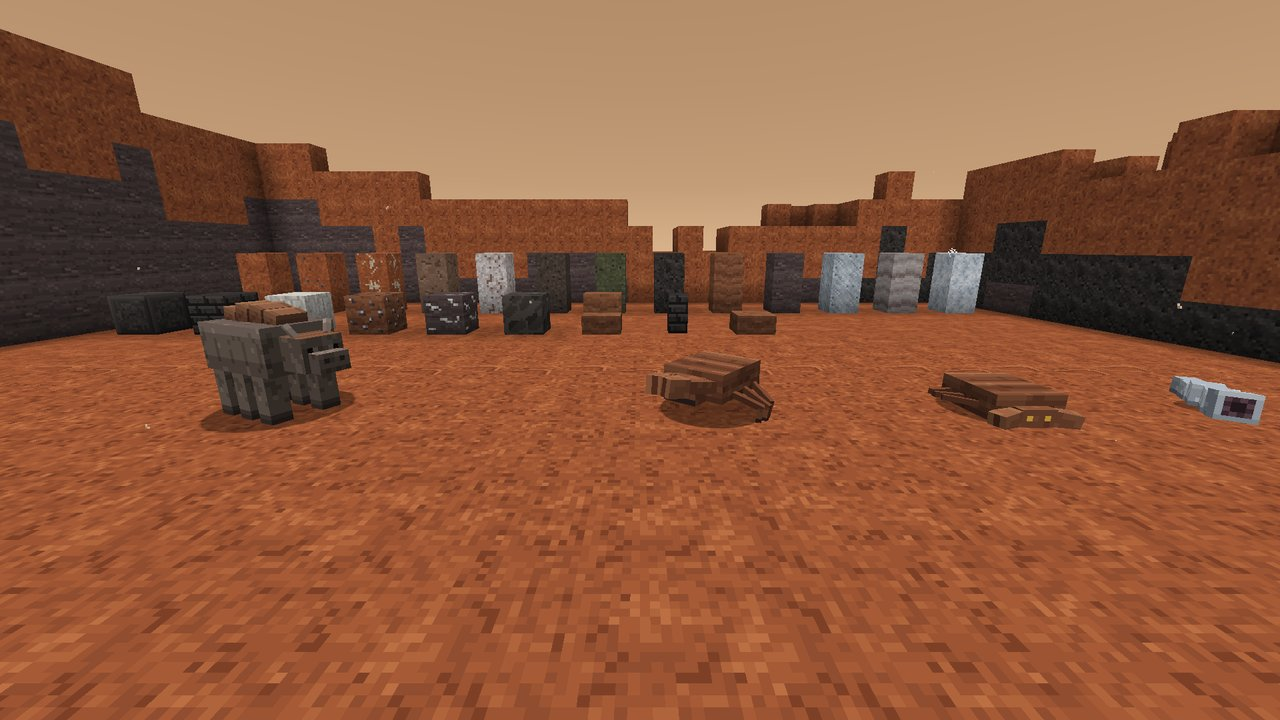
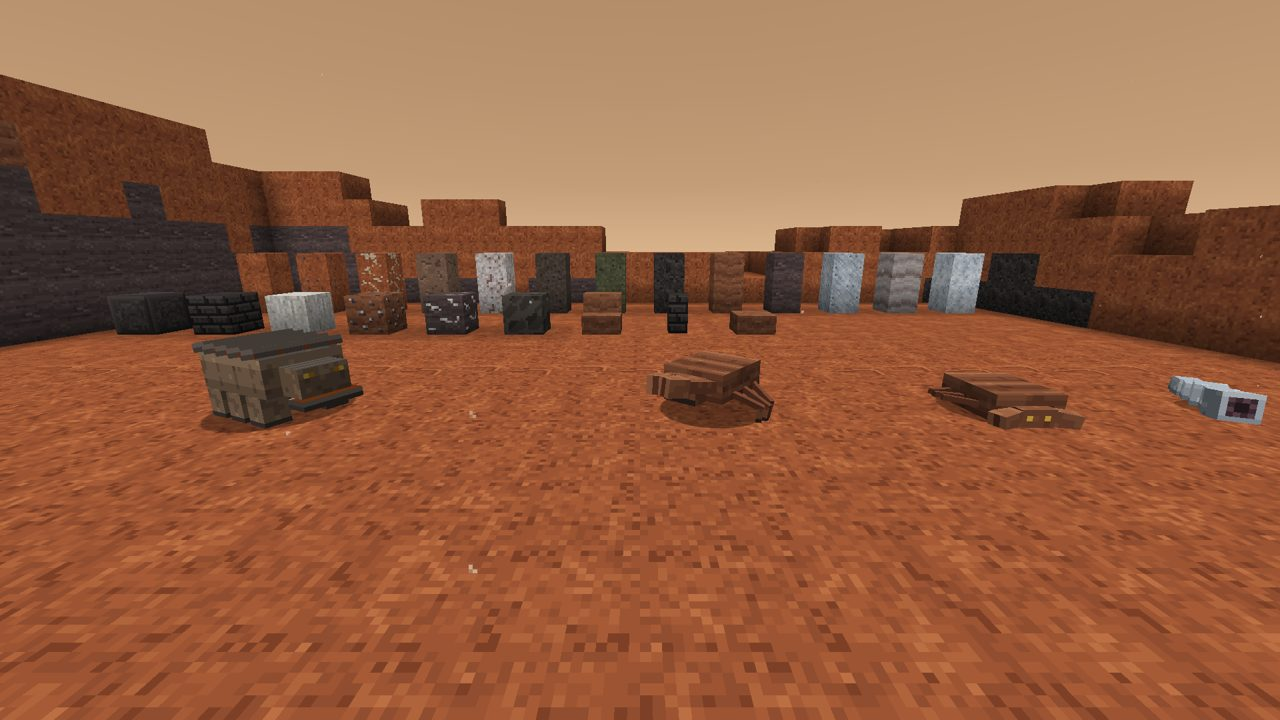
Stonegrazer: a low armoured grazer instead of a pig-like beast
Broad and low, with shingled rock plates flecked with rust across its back, a wedge head with small amber eyes and a wide scraper jaw that works while it grazes (dark orange inside), six short thick legs and a plated tail stub. Hitbox lowered to match.

diff --git a/src/main/java/com/pizzaparker07/spacebreaker/client/mars/StonegrazerModel.java b/src/main/java/com/pizzaparker07/spacebreaker/client/mars/StonegrazerModel.java
@@ -12,17 +12,23 @@ import net.minecraft.client.model.geom.builders.MeshDefinition;
 import net.minecraft.client.model.geom.builders.PartDefinition;
 import net.minecraft.util.Mth;
 
-/** Stonegrazer: barrel body with a ridge of dorsal plates, a blunt snout with two short horns, low heavy head, six pillar legs and a stubby tail. UVs: mars_creatures.py. */
+/**
+ * Stonegrazer: a low, broad armoured grazer. Overlapping rock plates shingle its back, the head is a low wedge with a
+ * wide flat scraper jaw for planing lichen-like crusts off the rock, six short thick legs and a plated stub of a tail.
+ * UVs: mars_creatures.py.
+ */
 public class StonegrazerModel extends HierarchicalModel<Stonegrazer> {
     public static final ModelLayerLocation LAYER = new ModelLayerLocation(Spacebreaker.id("stonegrazer"), "main");
     private final ModelPart root;
     private final ModelPart head;
+    private final ModelPart jaw;
     private final ModelPart tail;
     private final ModelPart[] legs = new ModelPart[6];
 
     public StonegrazerModel(ModelPart root) {
         this.root = root;
         this.head = root.getChild("head");
+        this.jaw = head.getChild("jaw");
         this.tail = root.getChild("tail");
         for (int i = 0; i < 6; i++) {
             legs[i] = root.getChild("leg" + i);
@@ -32,28 +38,25 @@ public class StonegrazerModel extends HierarchicalModel<Stonegrazer> {
     public static LayerDefinition createLayer() {
         MeshDefinition mesh = new MeshDefinition();
         PartDefinition root = mesh.getRoot();
-        PartDefinition body = root.addOrReplaceChild("body", CubeListBuilder.create().texOffs(0, 0).addBox(-7F, -10F, -11F, 14F, 10F, 22F),
-                PartPose.offset(0F, 14F, 0F));
-        float[] pz = {-7F, -2F, 3F, 7.5F};
-        float[] ph = {3F, 4F, 4F, 3F};
-        for (int i = 0; i < 4; i++) {
-            body.addOrReplaceChild("plate" + i, CubeListBuilder.create().texOffs(0, 32).addBox(-3F, -ph[i], -2F, 6F, ph[i], 4F),
-                    PartPose.offsetAndRotation(0F, -9.5F, pz[i], 0.25F, 0F, 0F));
+        PartDefinition body = root.addOrReplaceChild("body", CubeListBuilder.create().texOffs(0, 0).addBox(-8F, -8F, -11F, 16F, 8F, 22F),
+                PartPose.offset(0F, 18F, 0F));
+        // shingled plates across the back, each tipped forward over the next
+        float[] pz = {-8.5F, -4F, 0.5F, 5F, 9F};
+        for (int i = 0; i < pz.length; i++) {
+            body.addOrReplaceChild("plate" + i, CubeListBuilder.create().texOffs(0, 32).addBox(-8.5F, -2F, -2.5F, 17F, 2F, 5F),
+                    PartPose.offsetAndRotation(0F, -8F, pz[i], -0.18F, 0F, 0F));
         }
-        PartDefinition head = root.addOrReplaceChild("head", CubeListBuilder.create().texOffs(72, 0).addBox(-4F, -3F, -8F, 8F, 7F, 8F),
-                PartPose.offset(0F, 9F, -10F));
-        head.addOrReplaceChild("snout", CubeListBuilder.create().texOffs(104, 0).addBox(-3F, 0F, -3F, 6F, 4F, 3F), PartPose.offset(0F, 0F, -8F));
-        head.addOrReplaceChild("horn_left", CubeListBuilder.create().texOffs(104, 10).addBox(-0.5F, -3F, -0.5F, 1F, 3F, 1F),
-                PartPose.offsetAndRotation(3F, -3F, -5F, -0.35F, 0F, 0.4F));
-        head.addOrReplaceChild("horn_right", CubeListBuilder.create().texOffs(104, 10).mirror().addBox(-0.5F, -3F, -0.5F, 1F, 3F, 1F),
-                PartPose.offsetAndRotation(-3F, -3F, -5F, -0.35F, 0F, -0.4F));
-        root.addOrReplaceChild("tail", CubeListBuilder.create().texOffs(72, 30).addBox(-1.5F, -1.5F, 0F, 3F, 3F, 6F),
-                PartPose.offsetAndRotation(0F, 7F, 10.5F, -0.6F, 0F, 0F));
+        PartDefinition head = root.addOrReplaceChild("head", CubeListBuilder.create().texOffs(80, 0).addBox(-5F, -4F, -6F, 10F, 6F, 6F),
+                PartPose.offset(0F, 16F, -11F));
+        head.addOrReplaceChild("jaw", CubeListBuilder.create().texOffs(80, 14).addBox(-6F, 0F, -5F, 12F, 2F, 5F),
+                PartPose.offset(0F, 2F, -3F));
+        root.addOrReplaceChild("tail", CubeListBuilder.create().texOffs(80, 24).addBox(-2F, -2F, 0F, 4F, 3F, 5F),
+                PartPose.offsetAndRotation(0F, 14F, 11F, -0.25F, 0F, 0F));
         float[] z = {-7F, 0F, 7F};
         for (int i = 0; i < 3; i++) {
-            root.addOrReplaceChild("leg" + i, CubeListBuilder.create().texOffs(72, 16).addBox(-2F, 0F, -2F, 4F, 10F, 4F), PartPose.offset(5F, 14F, z[i]));
-            root.addOrReplaceChild("leg" + (i + 3), CubeListBuilder.create().texOffs(72, 16).mirror().addBox(-2F, 0F, -2F, 4F, 10F, 4F),
-                    PartPose.offset(-5F, 14F, z[i]));
+            root.addOrReplaceChild("leg" + i, CubeListBuilder.create().texOffs(100, 24).addBox(-2.5F, 0F, -2.5F, 5F, 6F, 5F), PartPose.offset(6F, 18F, z[i]));
+            root.addOrReplaceChild("leg" + (i + 3), CubeListBuilder.create().texOffs(100, 24).mirror().addBox(-2.5F, 0F, -2.5F, 5F, 6F, 5F),
+                    PartPose.offset(-6F, 18F, z[i]));
         }
         return LayerDefinition.create(mesh, 128, 64);
     }
@@ -68,7 +71,9 @@ public class StonegrazerModel extends HierarchicalModel<Stonegrazer> {
         head.yRot = netHeadYaw * Mth.DEG_TO_RAD * 0.5F;
         // every so often the head sinks to lick the rocks
         float graze = Mth.clamp((Mth.sin(ageInTicks * 0.025F + grazer.getId()) - 0.6F) * 4F, 0F, 1F) * (1 - Math.min(1, limbSwingAmount * 3));
-        head.xRot = headPitch * Mth.DEG_TO_RAD * 0.4F + graze * 0.9F;
+        head.xRot = headPitch * Mth.DEG_TO_RAD * 0.4F + graze * 0.7F;
+        // the scraper jaw works while it grazes
+        jaw.xRot = graze * (0.15F + 0.15F * Mth.sin(ageInTicks * 0.6F));
         tail.yRot = Mth.sin(ageInTicks * 0.08F) * 0.2F;
         for (int i = 0; i < 6; i++) {
             float phase = ((i % 3) + (i >= 3 ? 1 : 0)) % 2 == 0 ? 0 : Mth.PI;

diff --git a/tools/textures/modules/mars_creatures.py b/tools/textures/modules/mars_creatures.py
@@ -73,75 +73,74 @@ def beetle():
     return cv
 
 
+HIDE = ramp('#4a3a2e', '#5e4a3a', '#735b47', '#896d55', '#9d7f63', '#b09272')
+ROCK = ramp('#2f2a28', '#3f3834', '#514842', '#635850', '#76695f', '#897b6f')
+RUST = ramp('#5a2a18', '#7a3a20', '#9a4e2a')
+MOUTH = ramp('#3a1a0c', '#6a3010')
+
+
 def grazer():
-    """Stonegrazer: dusty grey-brown hide, a back armoured with rust-red plates in rows, a heavy blunt head."""
+    """Stonegrazer: a sandy hide under shingled grey rock plates flecked with rust, a wedge head with small amber eyes
+    and a wide dark scraper jaw with a pale cutting edge (the mouth inside dark orange)."""
     cv = Canvas(128, 64)
     n = clustered(128, 64, 51, passes=1)
 
     def body(face, x, y, fw, fh):
         if face == 'top':
-            return noise_pick(GRAZER, 3, n, x, y)
+            return noise_pick(ROCK, 2, n, x, y)
         if face == 'bottom':
-            return noise_pick(GRAZER, 1, n, x + 40, y)
-        # flank: lighter top, wrinkles as darker vertical folds
-        t = 4 if y < 2 else (3 if y < fh - 3 else 2)
-        if x % 5 == 0 and 2 < y < fh - 2:
-            t -= 1
-        return noise_pick(GRAZER, t, n, x + 7, y + 22)
+            return noise_pick(HIDE, 1, n, x + 40, y)
+        t = 4 if y < 2 else (3 if y < fh - 2 else 2)
+        if x % 6 == 0 and 1 < y < fh - 1:
+            t -= 1  # skin folds
+        return noise_pick(HIDE, t, n, x + 7, y + 22)
 
-    paint(cv, 0, 0, 14, 10, 22, body)
+    paint(cv, 0, 0, 16, 8, 22, body)
 
     def plates(face, x, y, fw, fh):
-        # each dorsal plate: a lit rim on top, weathered rust-red sides fading darker toward the base
         if face == 'top':
-            return PLATE[5] if y == 0 else (PLATE[4] if x not in (0, fw - 1) else PLATE[3])
+            if y == 0:
+                return ROCK[5]  # lit leading edge
+            if (x * 7 + y * 3) % 11 == 0:
+                return RUST[2]
+            return noise_pick(ROCK, 3, n, x + 3, y + 5)
         if face == 'bottom':
-            return PLATE[0]
+            return ROCK[0]
         if y == 0:
-            return PLATE[4]
-        t = 3 if y < fh // 2 else 2
-        if face in ('left', 'right') and (x + y) % 3 == 0:
-            t -= 1
-        return PLATE[max(1, t)]
+            return ROCK[4]
+        return RUST[1] if (x + y) % 5 == 0 else ROCK[2]
 
-    paint(cv, 0, 32, 6, 4, 4, plates)
+    paint(cv, 0, 32, 17, 2, 5, plates)
 
     def head(face, x, y, fw, fh):
         if face == 'front':
-            if y in (2,) and x in (1, fw - 2):
-                return CHITIN[0]  # small deep-set eyes
-            if y in (2,) and x in (2, fw - 3):
-                return GRAZER[5]
-            if y >= fh - 2:
-                return GRAZER[1] if x % 2 else GRAZER[2]  # grinding lips
-            return noise_pick(GRAZER, 3 if y < 2 else 2, n, x + 90, y)
+            if y == 1 and x in (1, fw - 2):
+                return EYE[2]
+            if y == 1 and x in (2, fw - 3):
+                return EYE[1]
+            return noise_pick(HIDE, 3 if y < 2 else 2, n, x + 90, y)
         if face == 'top':
-            return PLATE[4] if y % 3 == 0 else PLATE[3]
-        return noise_pick(GRAZER, 2, n, x + 60, y + 40)
+            return ROCK[3] if y % 2 == 0 else ROCK[2]
+        return noise_pick(HIDE, 2, n, x + 60, y + 40)
 
-    paint(cv, 72, 0, 8, 7, 8, head)
+    paint(cv, 80, 0, 10, 6, 6, head)
+
+    def jaw(face, x, y, fw, fh):
+        if face == 'top':
+            return MOUTH[1] if y > 0 else ROCK[5]  # inside the mouth, the cutting edge at the front
+        if face == 'front':
+            return ROCK[5] if y == 0 else ROCK[1]
+        return ROCK[1] if y else ROCK[2]
+
+    paint(cv, 80, 14, 12, 2, 5, jaw)
+    paint(cv, 80, 24, 4, 3, 5, lambda f, x, y, fw, fh: ROCK[3] if f == 'top' else noise_pick(HIDE, 2, n, x + 110, y + 50))
 
     def leg(face, x, y, fw, fh):
-        if y >= fh - 2:
-            return GRAZER[0] if y == fh - 1 else GRAZER[1]  # broad padded foot
-        return noise_pick(GRAZER, 3 if face in ('front', 'left') else 2, n, x + 100, y + 10)
+        if y >= fh - 1:
+            return ROCK[1]  # horny foot rim
+        return noise_pick(HIDE, 3 if face in ('front', 'left') else 2, n, x + 100, y + 10)
 
-    paint(cv, 72, 16, 4, 10, 4, leg)
-
-    def snout(face, x, y, fw, fh):
-        if face == 'front':
-            if y == 1 and x in (1, fw - 2):
-                return GRAZER[0]  # nostrils
-            if y == fh - 1:
-                return GRAZER[1] if x % 2 else GRAZER[2]  # grinding lips
-            return noise_pick(GRAZER, 4 if y == 0 else 3, n, x + 80, y + 50)
-        if face == 'top':
-            return noise_pick(GRAZER, 4, n, x + 85, y + 55)
-        return noise_pick(GRAZER, 2, n, x + 90, y + 58)
-
-    paint(cv, 104, 0, 6, 4, 3, snout)
-    paint(cv, 104, 10, 1, 3, 1, lambda f, x, y, fw, fh: GRAZER[6] if y == 0 else (GRAZER[5] if f in ('front', 'left') else GRAZER[4]))
-    paint(cv, 72, 30, 3, 3, 6, lambda f, x, y, fw, fh: noise_pick(GRAZER, 2, n, x + 110, y + 50))
+    paint(cv, 100, 24, 5, 6, 5, leg)
     return cv
 
 

diff --git a/src/main/java/com/pizzaparker07/spacebreaker/content/mars/entity/MarsEntities.java b/src/main/java/com/pizzaparker07/spacebreaker/content/mars/entity/MarsEntities.java
@@ -44,7 +44,7 @@ public final class MarsEntities {
             () -> EntityType.Builder.of(CanyonLurker::new, MobCategory.MONSTER).sized(1.4F, 0.95F).eyeHeight(0.75F).clientTrackingRange(8)
                     .build("canyon_lurker"));
     public static final DeferredHolder<EntityType<?>, EntityType<Stonegrazer>> STONEGRAZER = ENTITIES.register("stonegrazer",
-            () -> EntityType.Builder.of(Stonegrazer::new, MobCategory.CREATURE).sized(1.6F, 1.65F).eyeHeight(1.1F).clientTrackingRange(10)
+            () -> EntityType.Builder.of(Stonegrazer::new, MobCategory.CREATURE).sized(1.6F, 1.1F).eyeHeight(0.7F).clientTrackingRange(10)
                     .build("stonegrazer"));
     public static final DeferredHolder<EntityType<?>, EntityType<PolarWorm>> POLAR_WORM = ENTITIES.register("polar_worm",
             () -> EntityType.Builder.of(PolarWorm::new, MobCategory.CREATURE).sized(0.7F, 0.5F).eyeHeight(0.35F).clientTrackingRange(8)

diff --git a/docs/CONTENT.md b/docs/CONTENT.md
@@ -390,7 +390,7 @@ Her içerik paketi gerçek istemcide vitrin dünyasında fotoğraflanır; onayda
 | Gök cismi | Yaratıklar |
 |---|---|
 | Ay 🎨 | Regolit Kenesi (tozun altına saklanır, düşük yerçekiminde sıçrar), Yaşlı Regolit Kenesi (lav tüpü muhafızı), Toz Yüzücüsü (regolitin hemen altında süzülen pasif canlı, arkasında toz dalgaları), Keşif Dronu (karakol muhafızı, sersemletme atışı), Parıltı Böceği (pasif, ışıyan; fırçayla Parıltı Kabuğu verir → elektriksiz Parıltı Lambası, Ay gecesi için), Isı Emici (yalnız Ay gecesinde çıkar, lamba ışığında doğmaz; dokunuşu dondurur, akü ve jeneratörlerden enerji emip parlar, gün doğunca süblimleşir; ölünce emdiği enerji kızıltaşa döner) |
-| Mars 🎨 | Pas Böceği (demir oksit yer, tarafsız), Toz Şeytanı (fırtınalarda canlı hortum), Kanyon Pusucusu, Taş Otlayan (iri, pasif otlayıcı), Kutup Kurtçuğu |
+| Mars 🎨 | Pas Böceği (demir oksit yer, tarafsız), Toz Şeytanı (fırtınalarda canlı hortum), Kanyon Pusucusu, Taş Otlayan (alçak, geniş, zırhlı pasif otlayıcı: sırtında kiremit gibi dizili pas lekeli kaya plakaları, kamaya benzer baş, kayadan kabuk kazıyan geniş yassı çene, altı kısa kalın bacak), Kutup Kurtçuğu |
 | Venüs (bulutlar) 🎨 | Asit Vatozu (süzülen, tarafsız; kükürt ve deri bırakır), Bulut Medüzü (pasif gaz kesesi; Kaldırma Gazı Kesesi bırakır: kullanınca 30 sn yavaş düşüş) |
 | Merkür 🎨 | Alacakaranlık Sürüngeni (tehlikeli; grafit bırakır; gece-gündüz sınırında yaşar; güneş yükselince ya da gece çökünce toprağa gömülür), Oyuk Salyangozu (pasif, faydalı: oyuk tortusunu kazıyıp kükürt bırakır, kükürtle çoğalır) |
 | Io 🎨 | Kükürt Yengeci (ısıya dayanıklı, yakınına gelene saldırır) |
